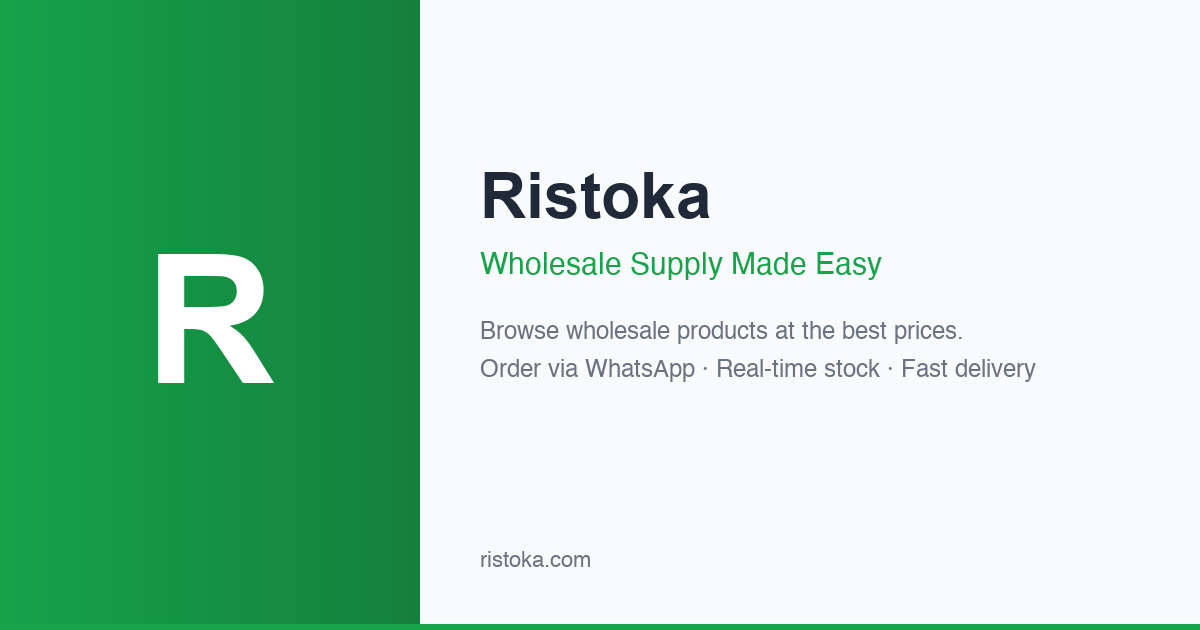
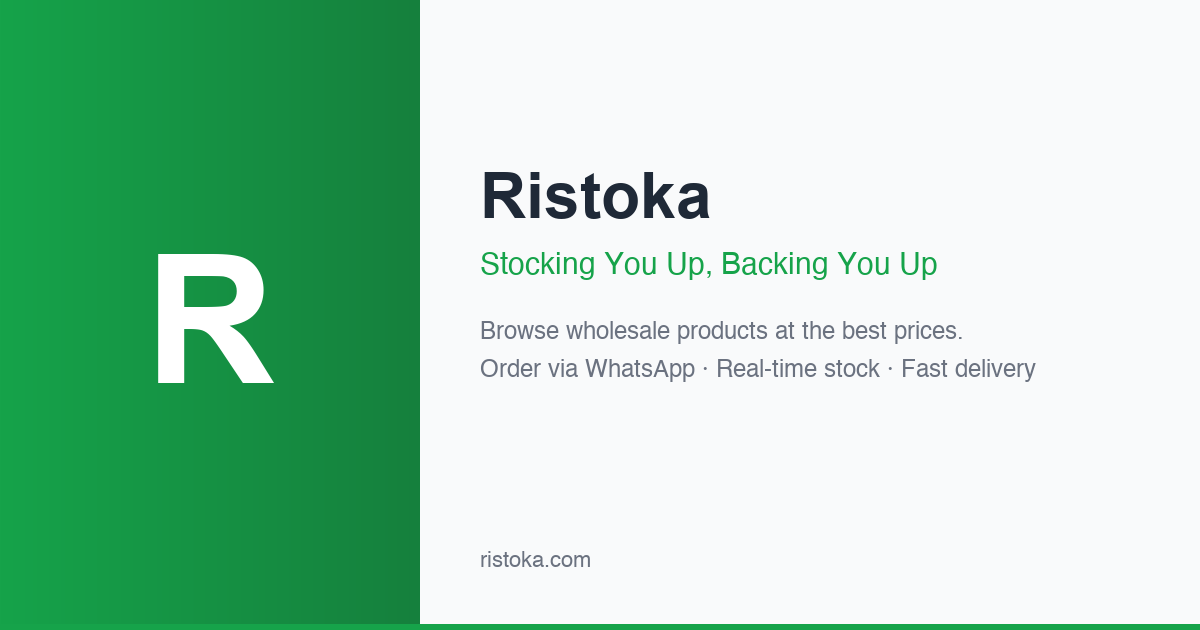
feat: Update tagline and metadata to reflect new branding message

Changed region(s): [[0.4008, 0.3921, 0.7708, 0.4524]]

diff --git a/src/app/layout.tsx b/src/app/layout.tsx
@@ -50,7 +50,7 @@ export const metadata: Metadata = {
     locale: "en_KE",
     url: siteUrl,
     siteName: "Ristoka",
-    title: "Ristoka — Wholesale Supply Made Easy",
+    title: "Ristoka — Stocking You Up, Backing You Up",
     description:
       "Browse wholesale products, compare prices, and order via WhatsApp. Real-time stock visibility, fast delivery, and M-Pesa payments.",
     images: [
@@ -58,13 +58,13 @@ export const metadata: Metadata = {
         url: "/og-image.png",
         width: 1200,
         height: 630,
-        alt: "Ristoka — Wholesale Supply Made Easy",
+        alt: "Ristoka — Stocking You Up, Backing You Up",
       },
     ],
   },
   twitter: {
     card: "summary_large_image",
-    title: "Ristoka — Wholesale Supply Made Easy",
+    title: "Ristoka — Stocking You Up, Backing You Up",
     description:
       "Browse wholesale products, compare prices, and order via WhatsApp. Real-time stock, fast delivery.",
     images: ["/og-image.png"],

diff --git a/src/app/(retailer)/page.tsx b/src/app/(retailer)/page.tsx
@@ -66,7 +66,7 @@ export default async function HomePage() {
           Welcome to <span className="text-primary">Ristoka</span>
         </h1>
         <p className="text-sm text-muted-foreground">
-          Wholesale prices for retailers — buy in bulk, save more
+          Stocking you up, backing you up
         </p>
       </div>
 

diff --git a/src/app/signup/page.tsx b/src/app/signup/page.tsx
@@ -23,7 +23,7 @@ export default function SignUpPage() {
         </div>
         <h1 className="text-2xl font-bold text-foreground">{APP_NAME}</h1>
         <p className="mt-1 text-sm text-muted-foreground">
-          Wholesale prices for retailers
+          Stocking you up, backing you up
         </p>
       </div>
 

diff --git a/src/app/login/page.tsx b/src/app/login/page.tsx
@@ -42,7 +42,7 @@ function LoginForm() {
         </div>
         <h1 className="text-2xl font-bold text-foreground">{APP_NAME}</h1>
         <p className="mt-1 text-sm text-muted-foreground">
-          Wholesale prices for retailers
+          Stocking you up, backing you up
         </p>
       </div>
 

diff --git a/scripts/generate-images.py b/scripts/generate-images.py
@@ -96,7 +96,7 @@ def generate_og_image():
 
     # Tagline
     font_tag = get_font(30)
-    draw.text((cx, cy + 90), "Wholesale Supply Made Easy", fill=GREEN_START, font=font_tag)
+    draw.text((cx, cy + 90), "Stocking You Up, Backing You Up", fill=GREEN_START, font=font_tag)
 
     # Description
     font_desc = get_font(24)
